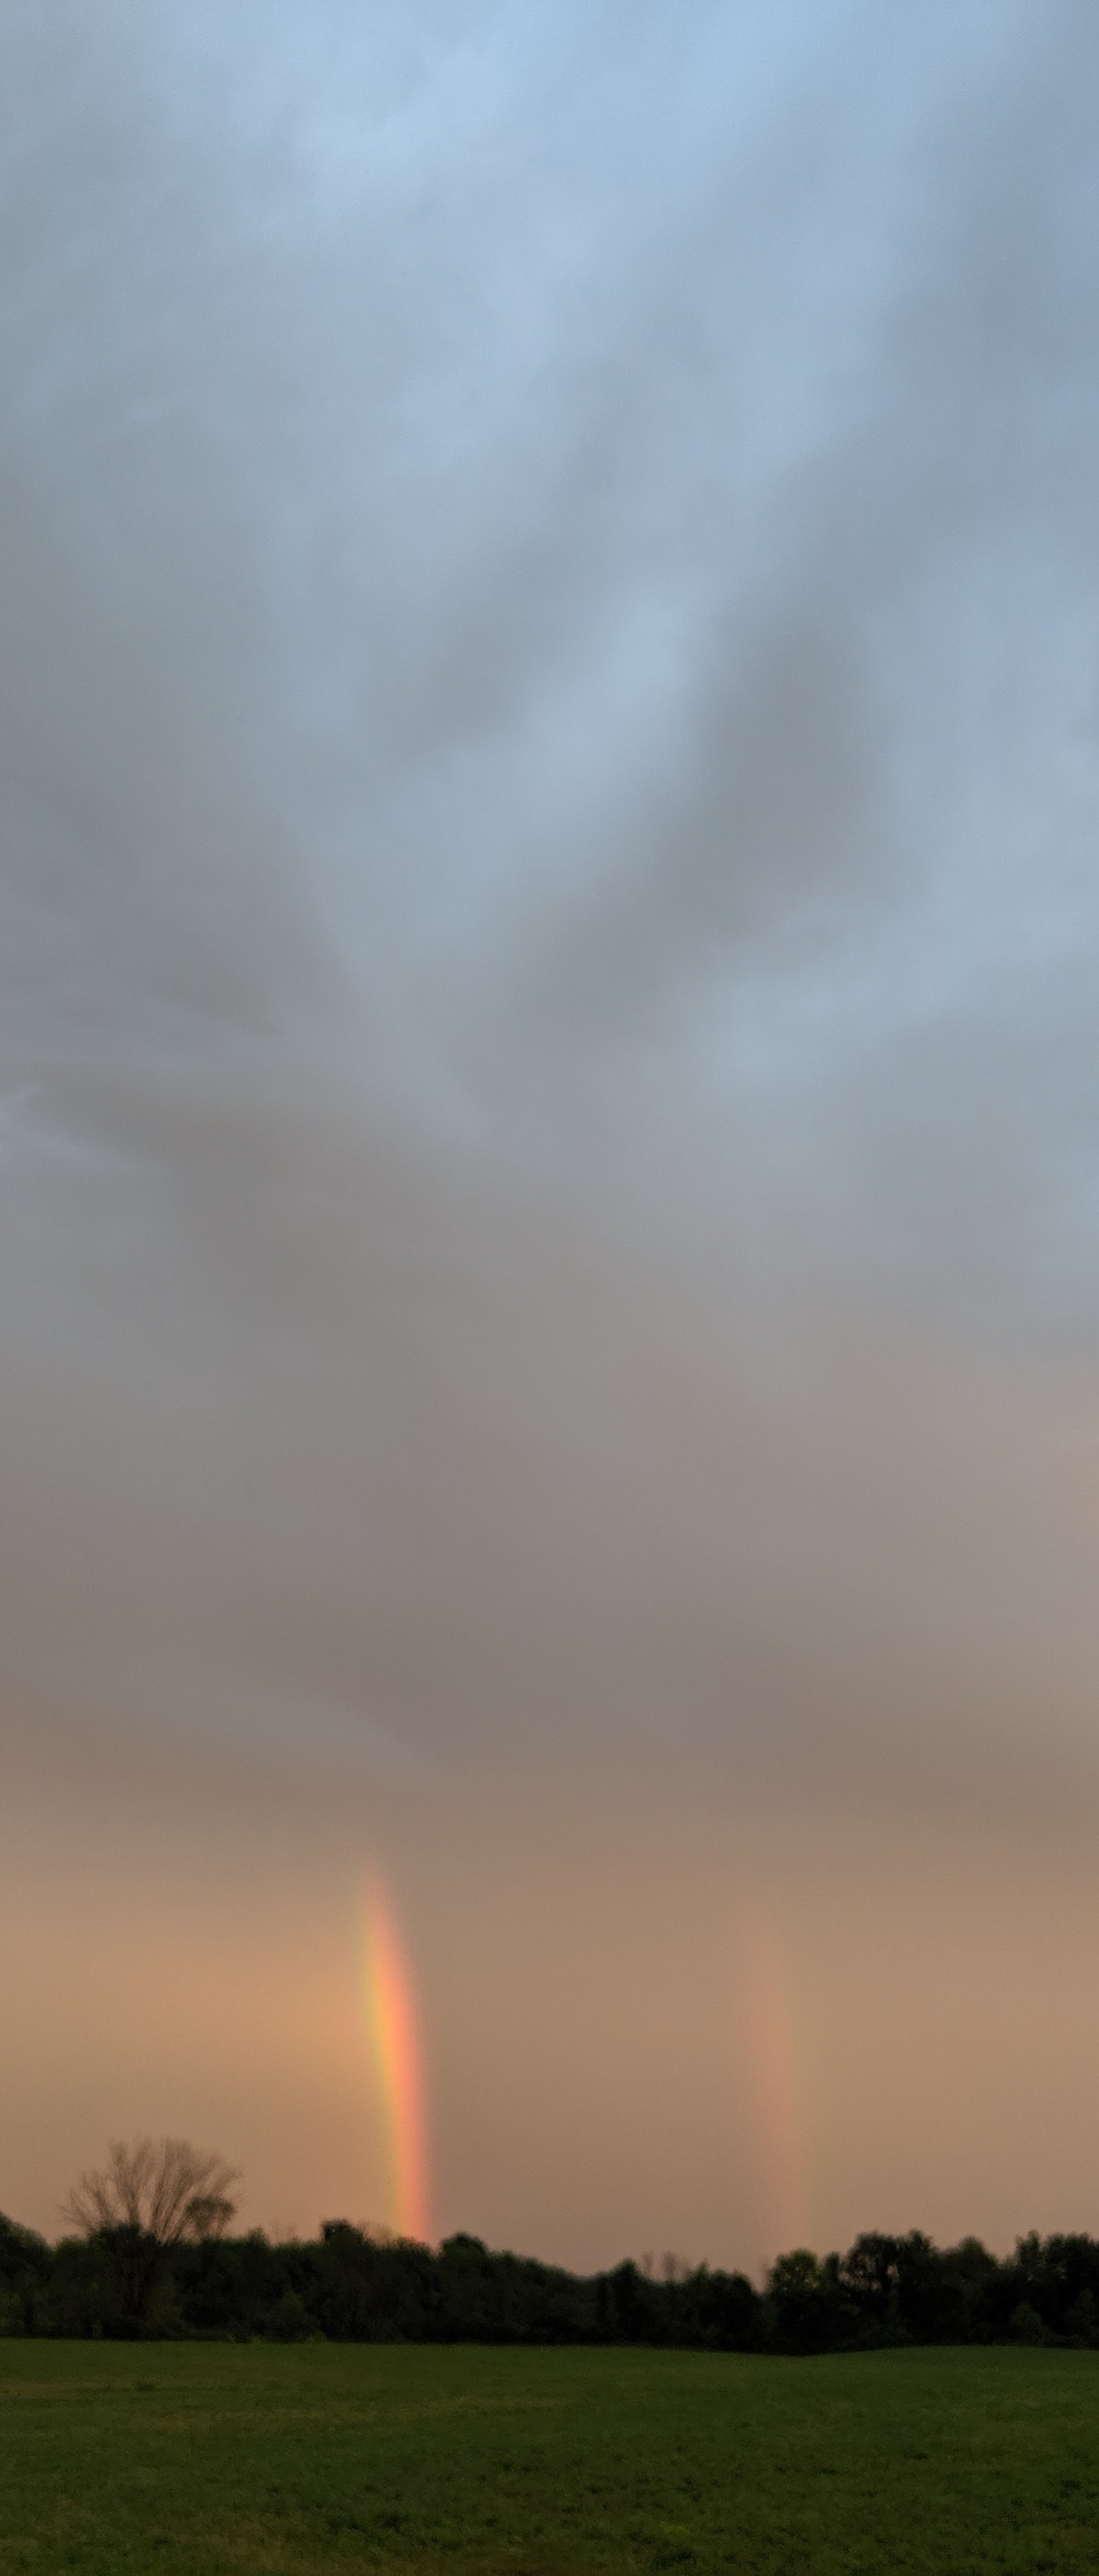
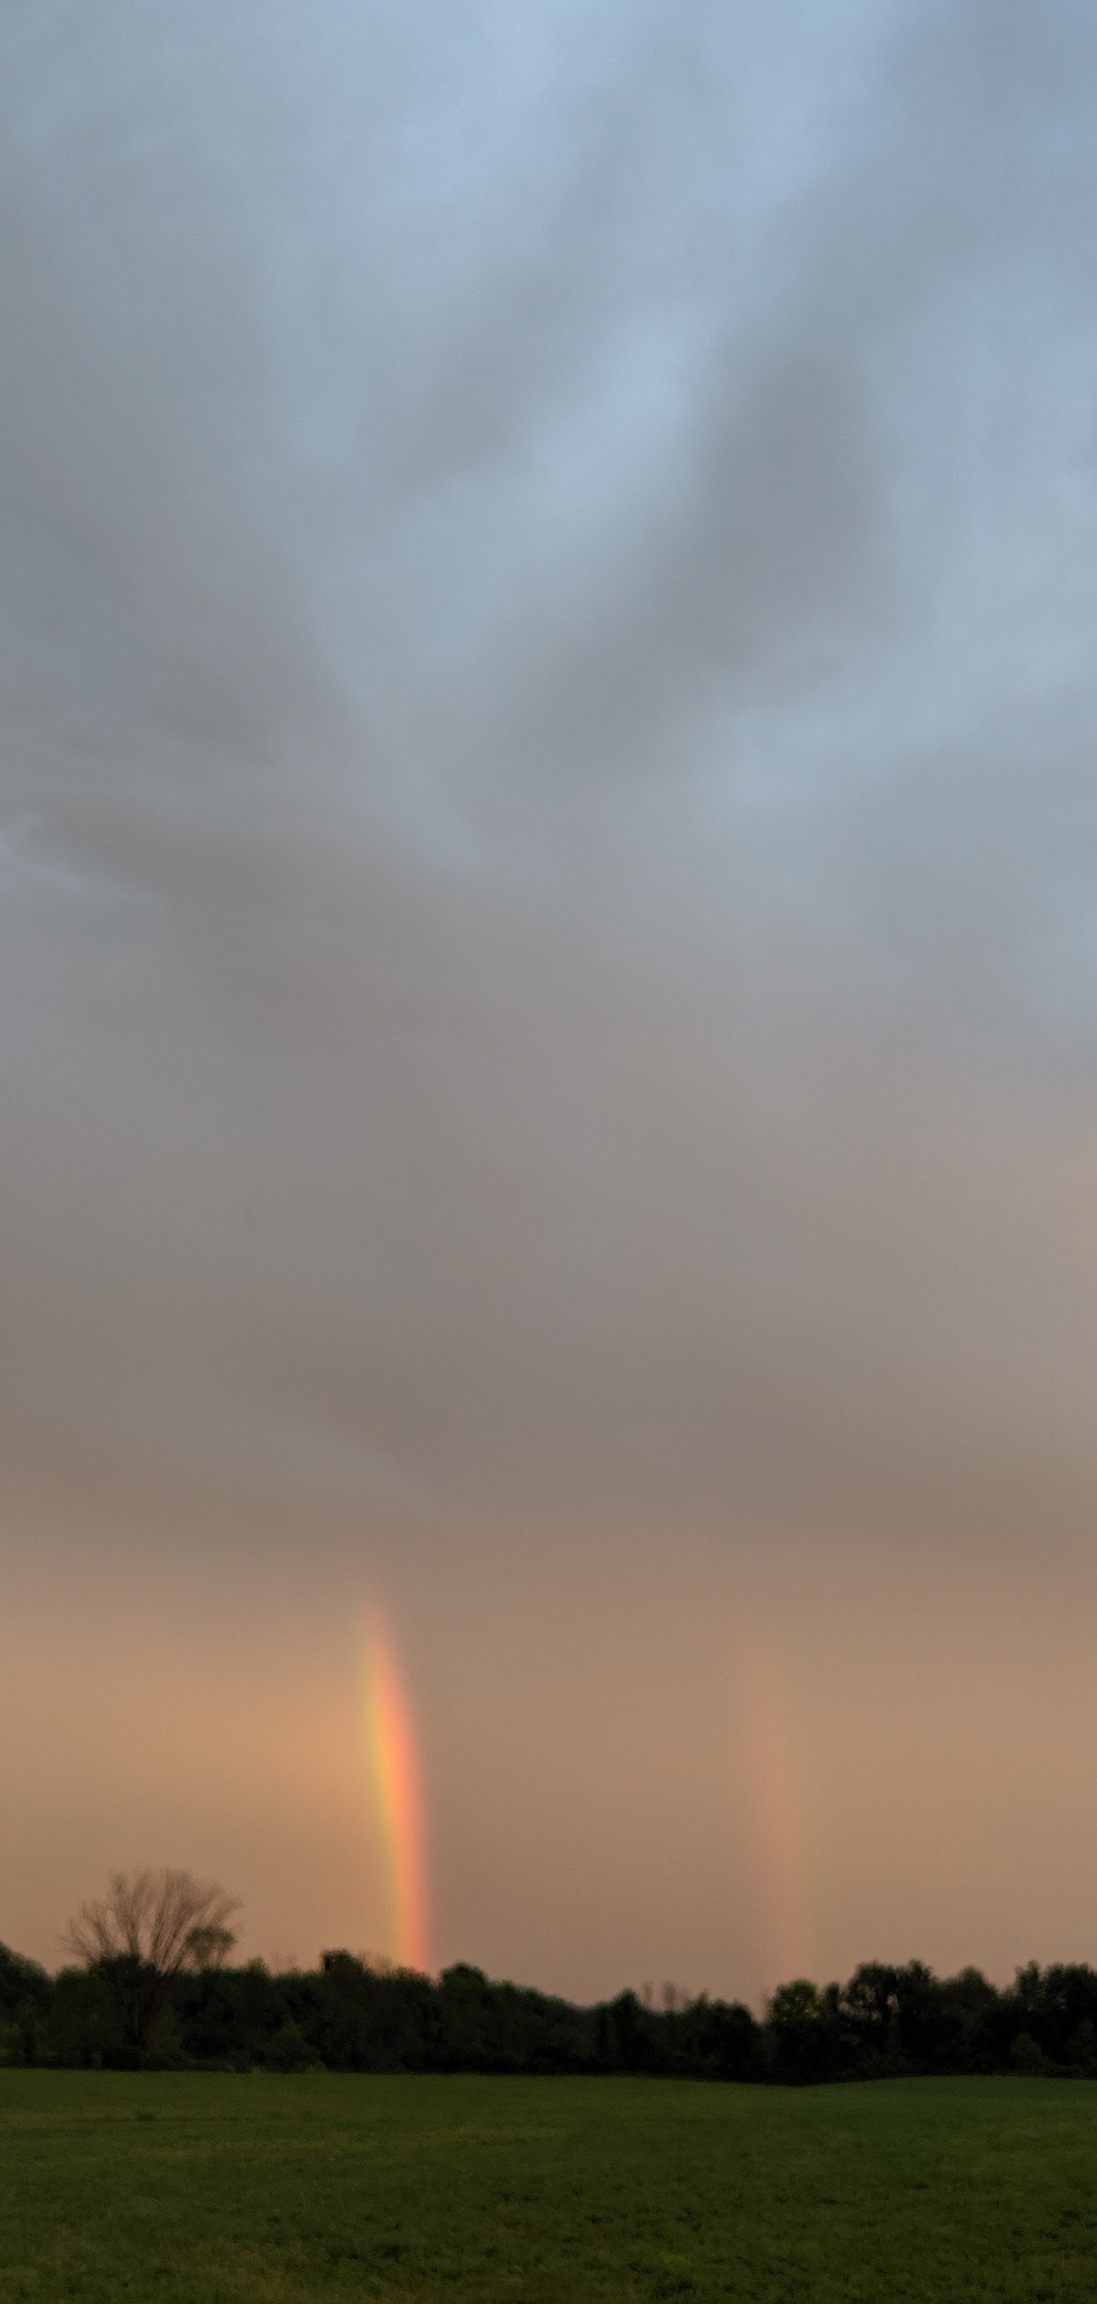
minor image resize

diff --git a/index.html b/index.html
@@ -25,7 +25,7 @@
 			<header id="header">
 				<div class="inner">
 					<a href="https://amangupta2.github.io/" class="image avatar"><img src="images/pic.jpg" alt="" /></a>
-					<h1><strong>Aman Gupta</strong><br /></h1>
+					<h1 size="24pt"><strong>Aman Gupta</strong><br /></h1>
 					Atmospheric Dynamics, Climate Science, Applied Mathematics<br />
 					<br />
 					<a href="#two"><h4>CV & Research</h4></a>
